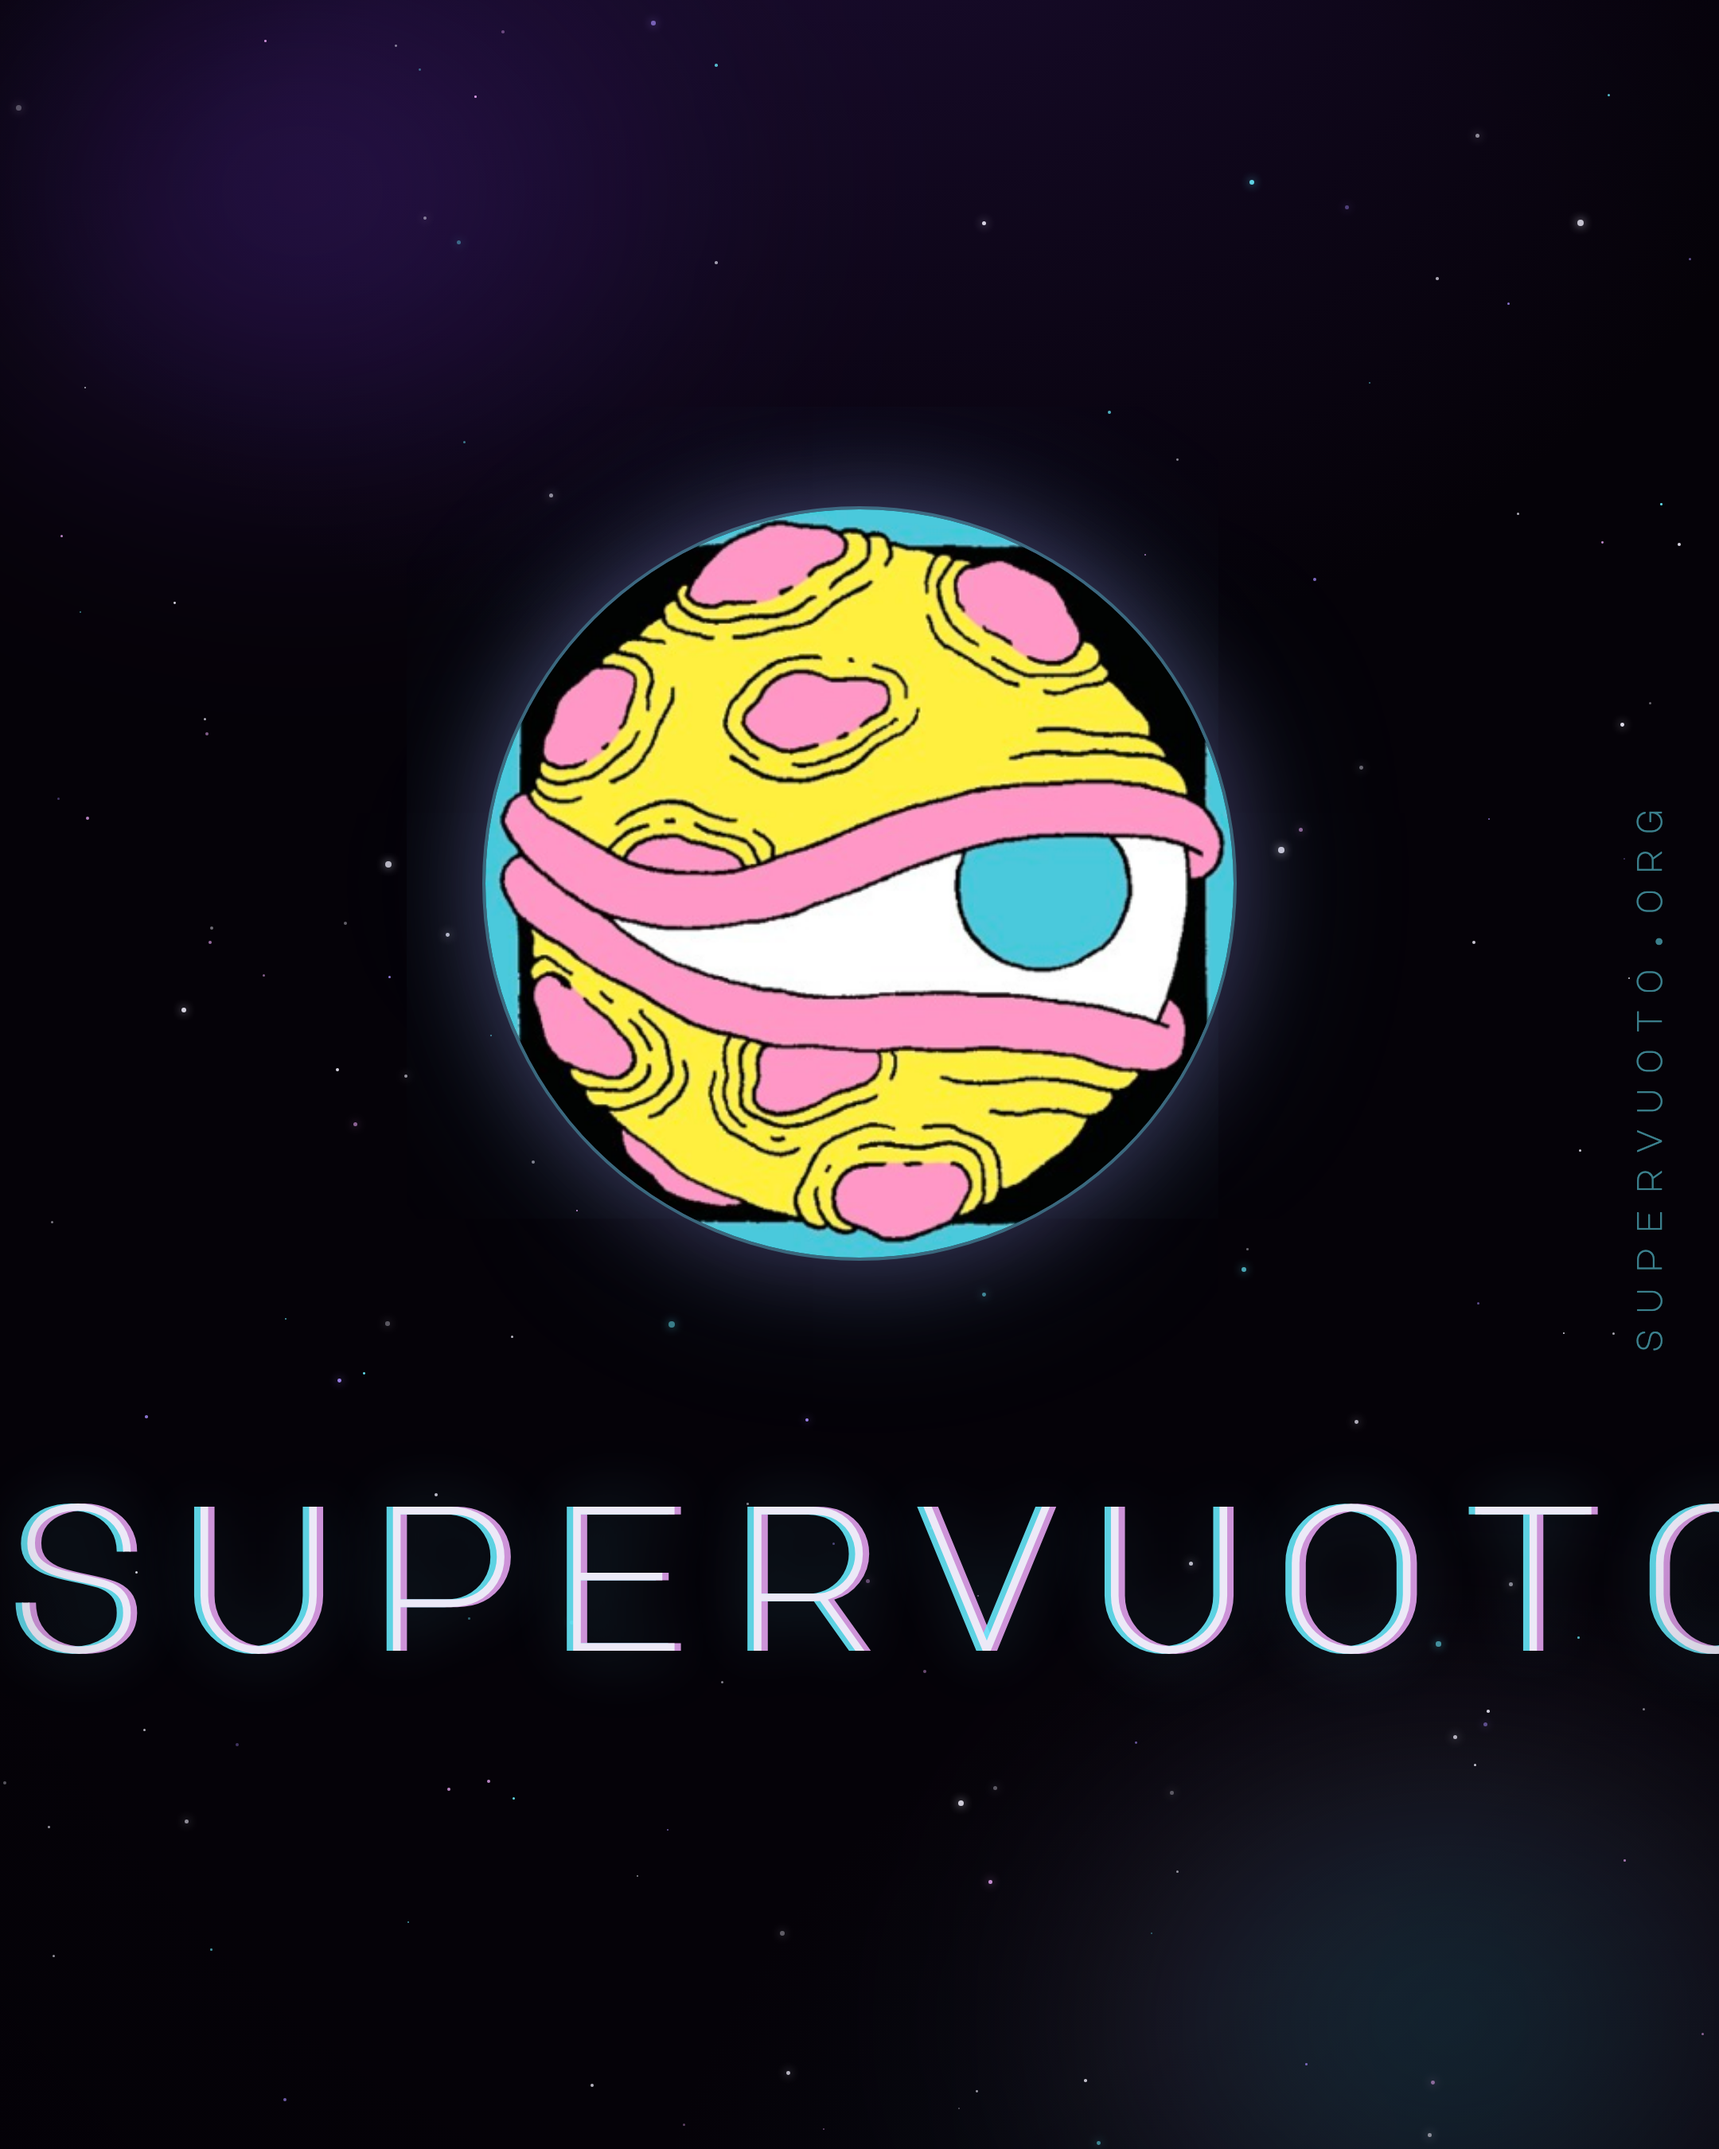
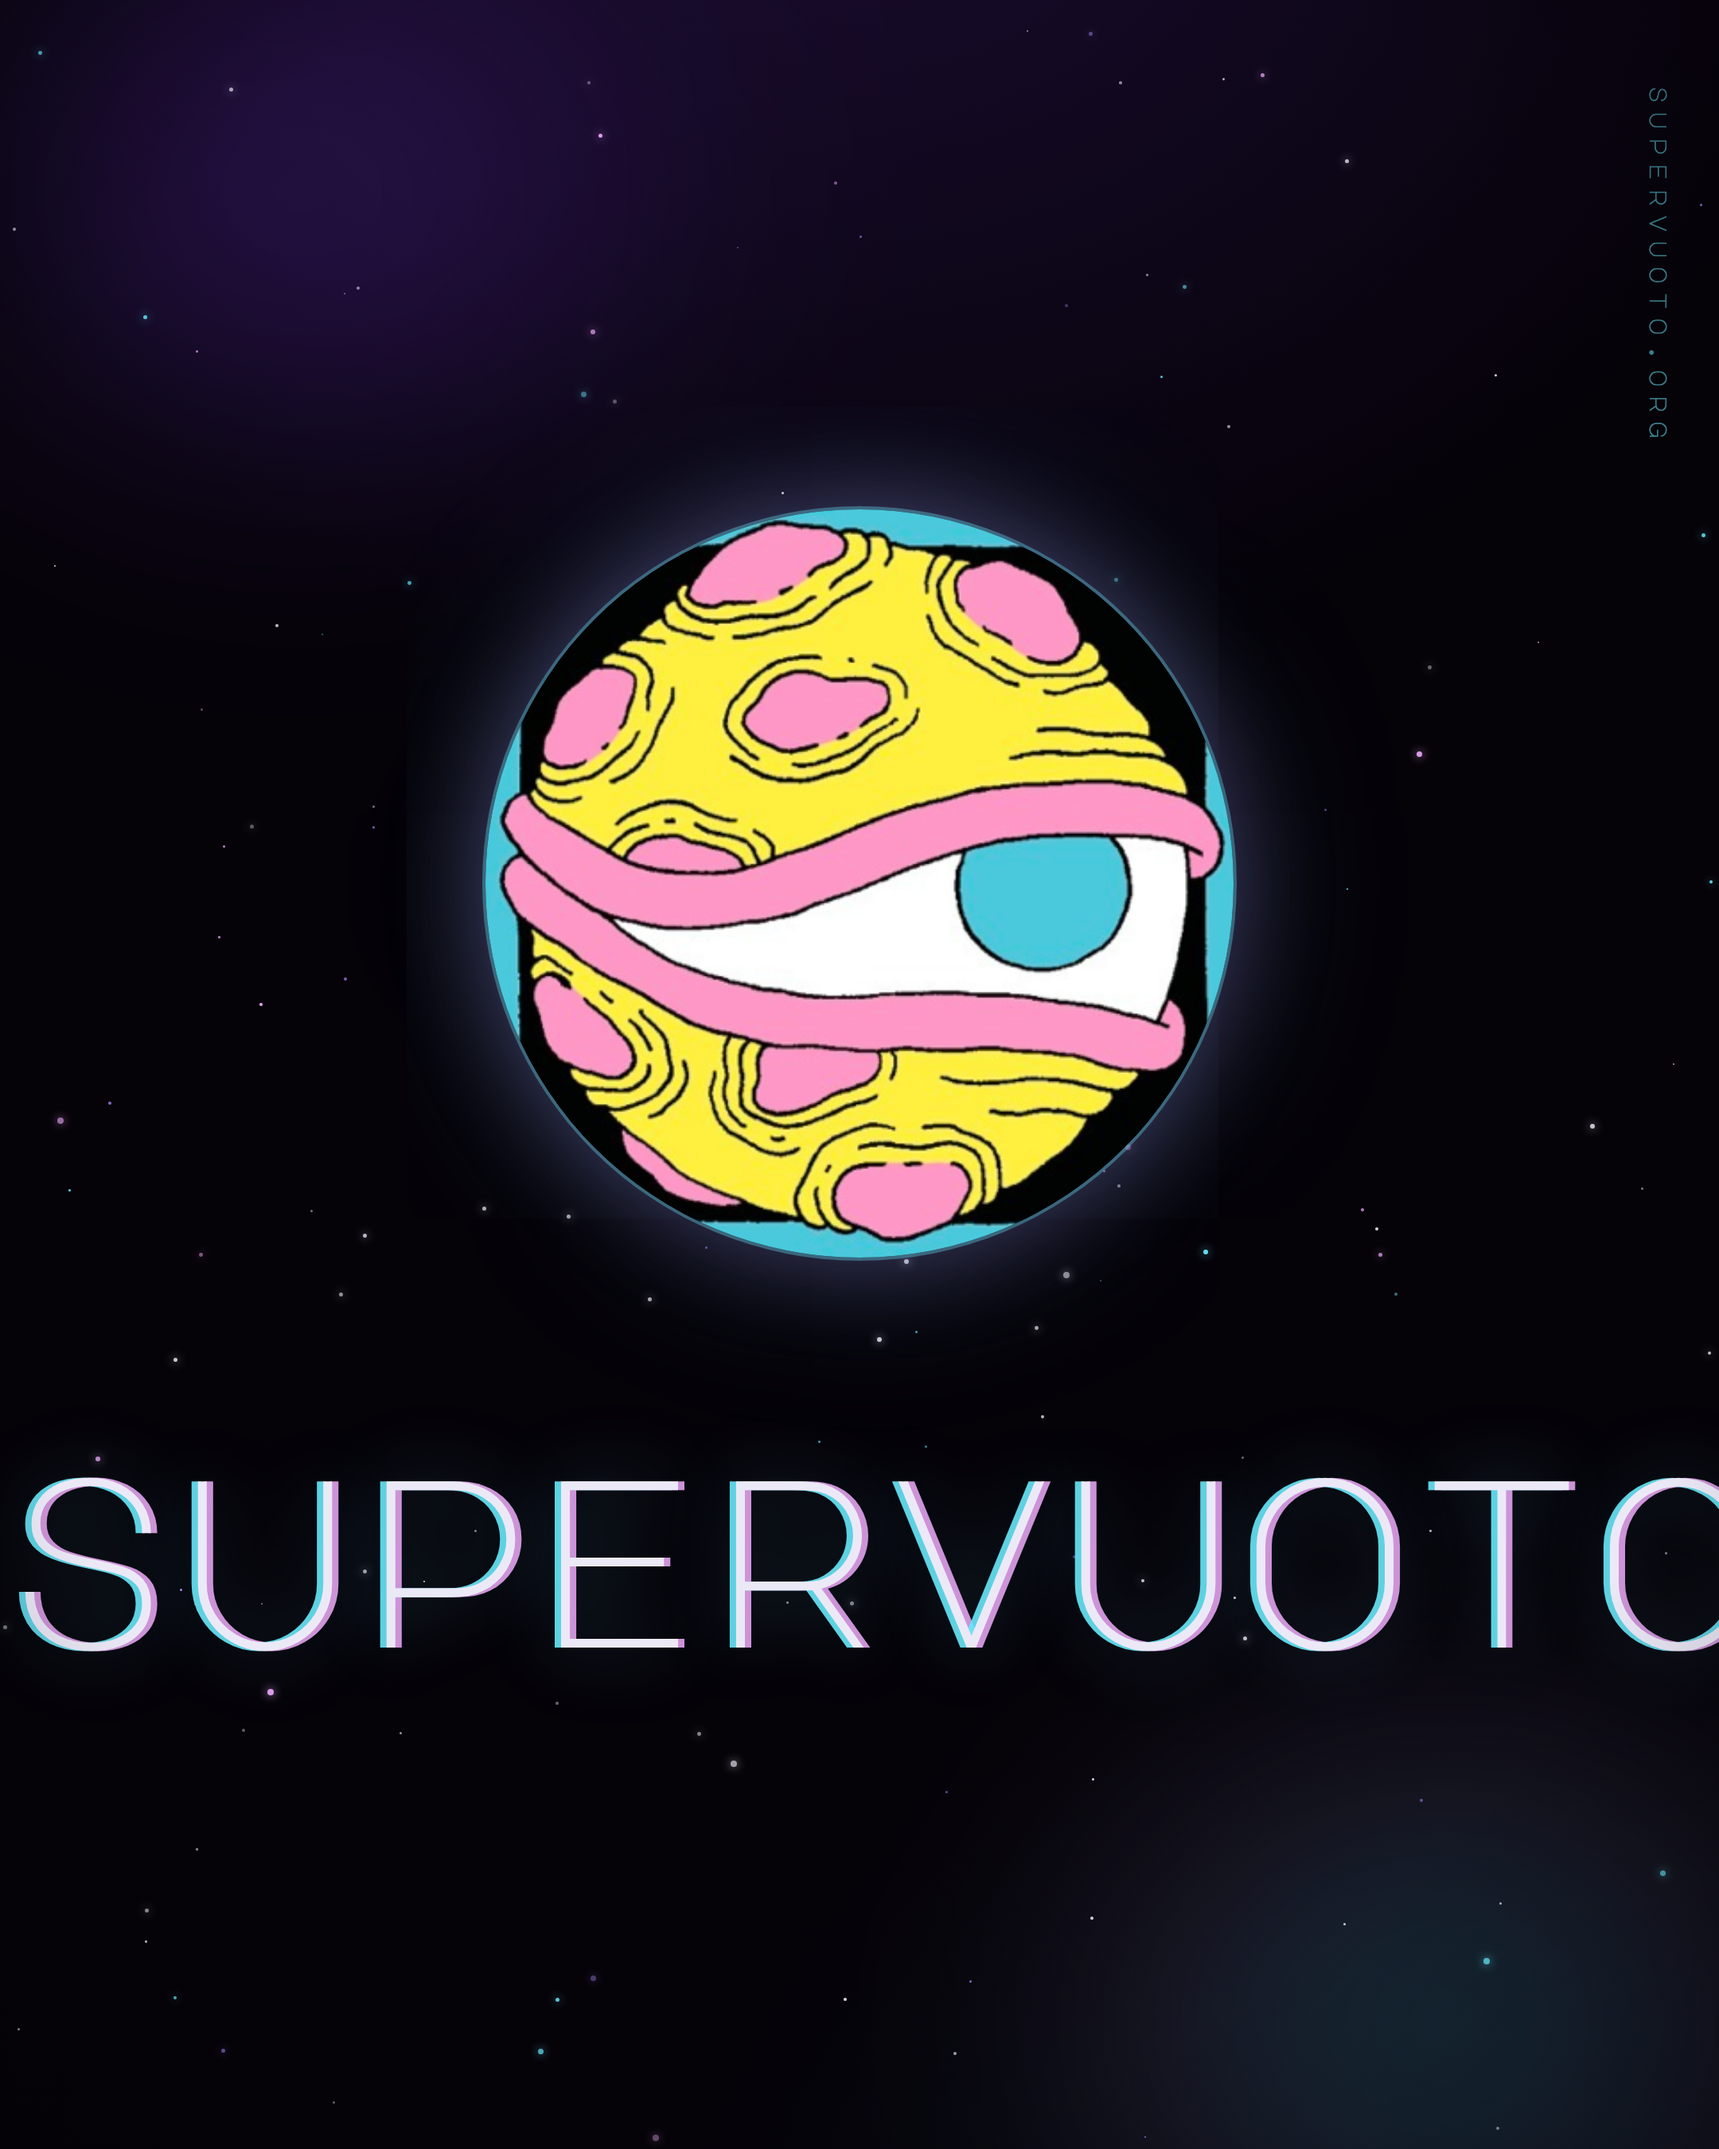
ig cover: oversized SUPERVUOTO bleeding off edges, smaller url up top
Wordmark now overflows the frame so the leading S and trailing O are half-cut;
supervuoto.org is smaller and moved to the top-right. Both 1:1 and 4:5 updated.

Changed region(s): [[0.1241, 0.6844, 1.0, 0.7778], [0.0, 0.6844, 0.1241, 0.7778]]

diff --git a/scripts/ig-cover.html b/scripts/ig-cover.html
@@ -52,30 +52,30 @@
 
   .word {
     position: absolute;
-    top: 726px; left: 0; right: 0;
+    top: 706px; left: 0; right: 0;
     text-align: center;
-    font-size: 122px;
-    letter-spacing: 0.14em;
+    white-space: nowrap;      /* overflow the edges: first S / last O get clipped */
+    font-size: 150px;
+    letter-spacing: 0;
     text-transform: lowercase;
     color: #ece9f7;
     text-shadow:
       -4px 0 rgba(103,232,249,0.9),
       4px 0 rgba(240,171,252,0.85),
-      0 0 40px rgba(103,232,249,0.4);
+      0 0 46px rgba(103,232,249,0.4);
   }
 
   /* 4:5 portrait (1080x1350) */
   #stage.portrait { height: 1350px; }
   #stage.portrait .eye { top: 320px; width: 470px; height: 470px; margin-left: -235px; }
-  #stage.portrait .word { top: 920px; font-size: 130px; }
+  #stage.portrait .word { top: 900px; }
 
   .url {
     position: absolute;
-    top: 50%; right: 34px;
-    transform: translateY(-50%) rotate(180deg);
+    top: 54px; right: 30px;
     writing-mode: vertical-rl;
-    font-size: 22px;
-    letter-spacing: 0.4em;
+    font-size: 15px;
+    letter-spacing: 0.34em;
     text-transform: lowercase;
     color: rgba(103,232,249,0.55);
   }
